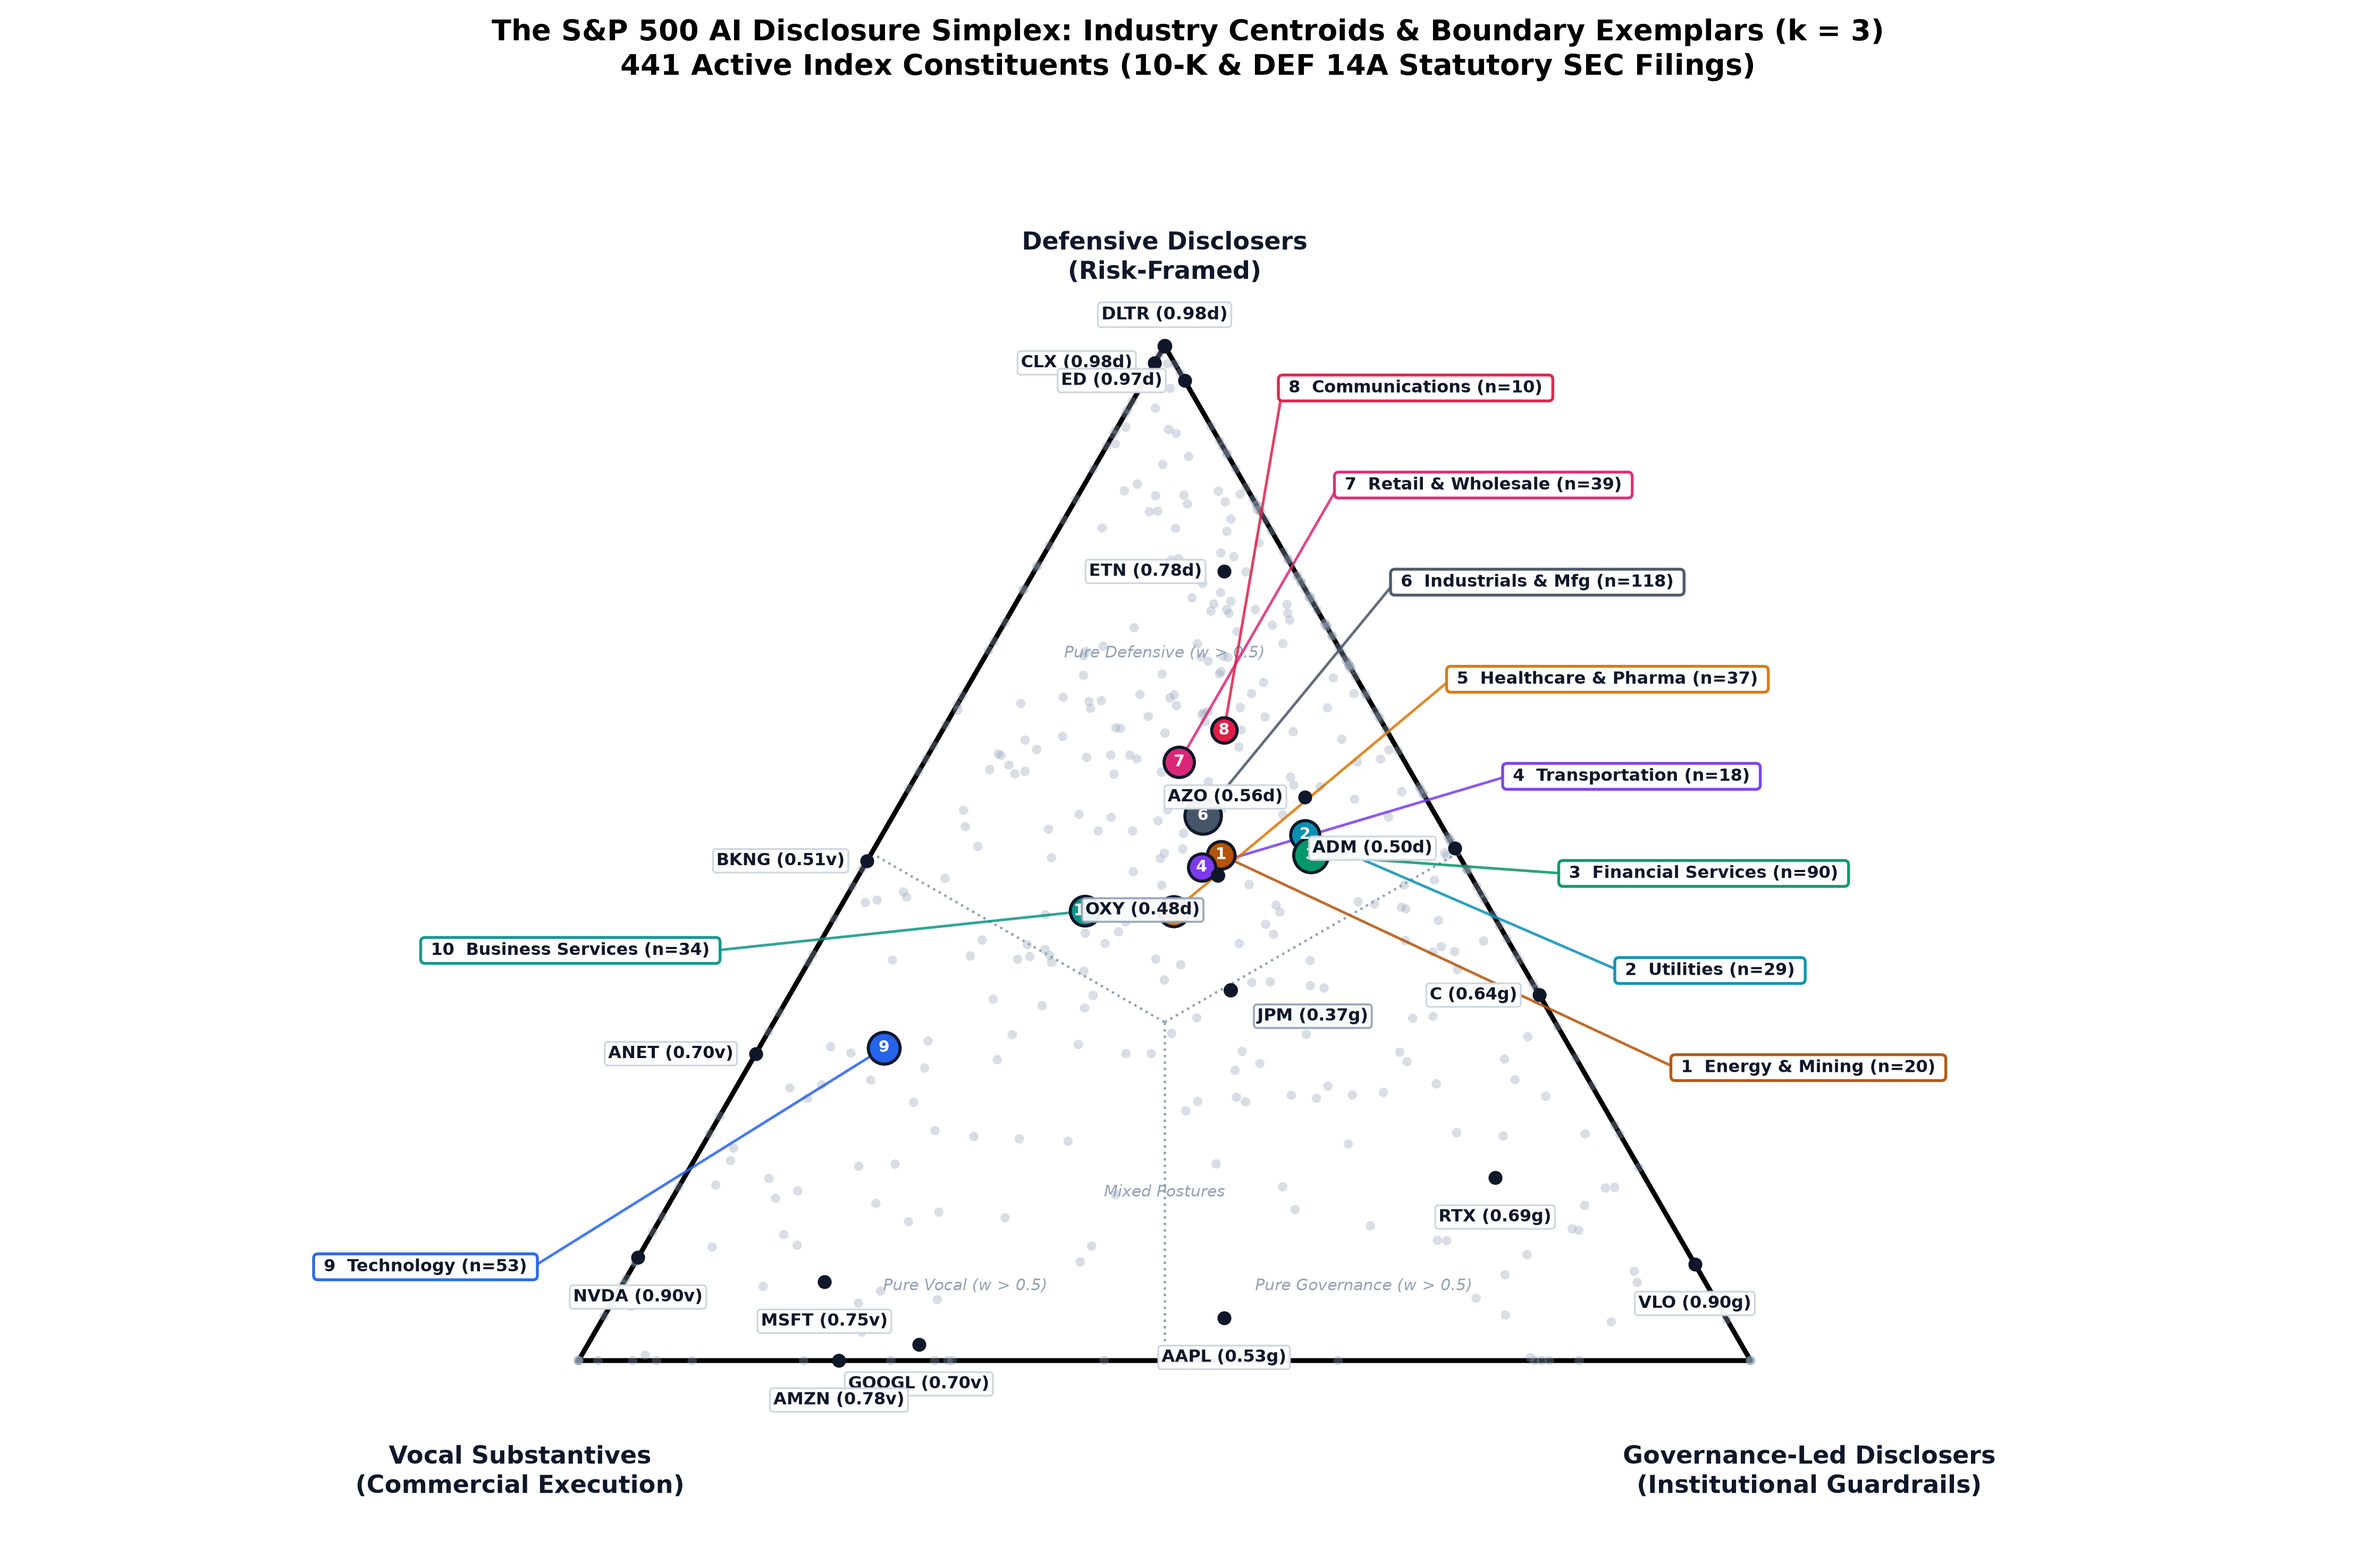
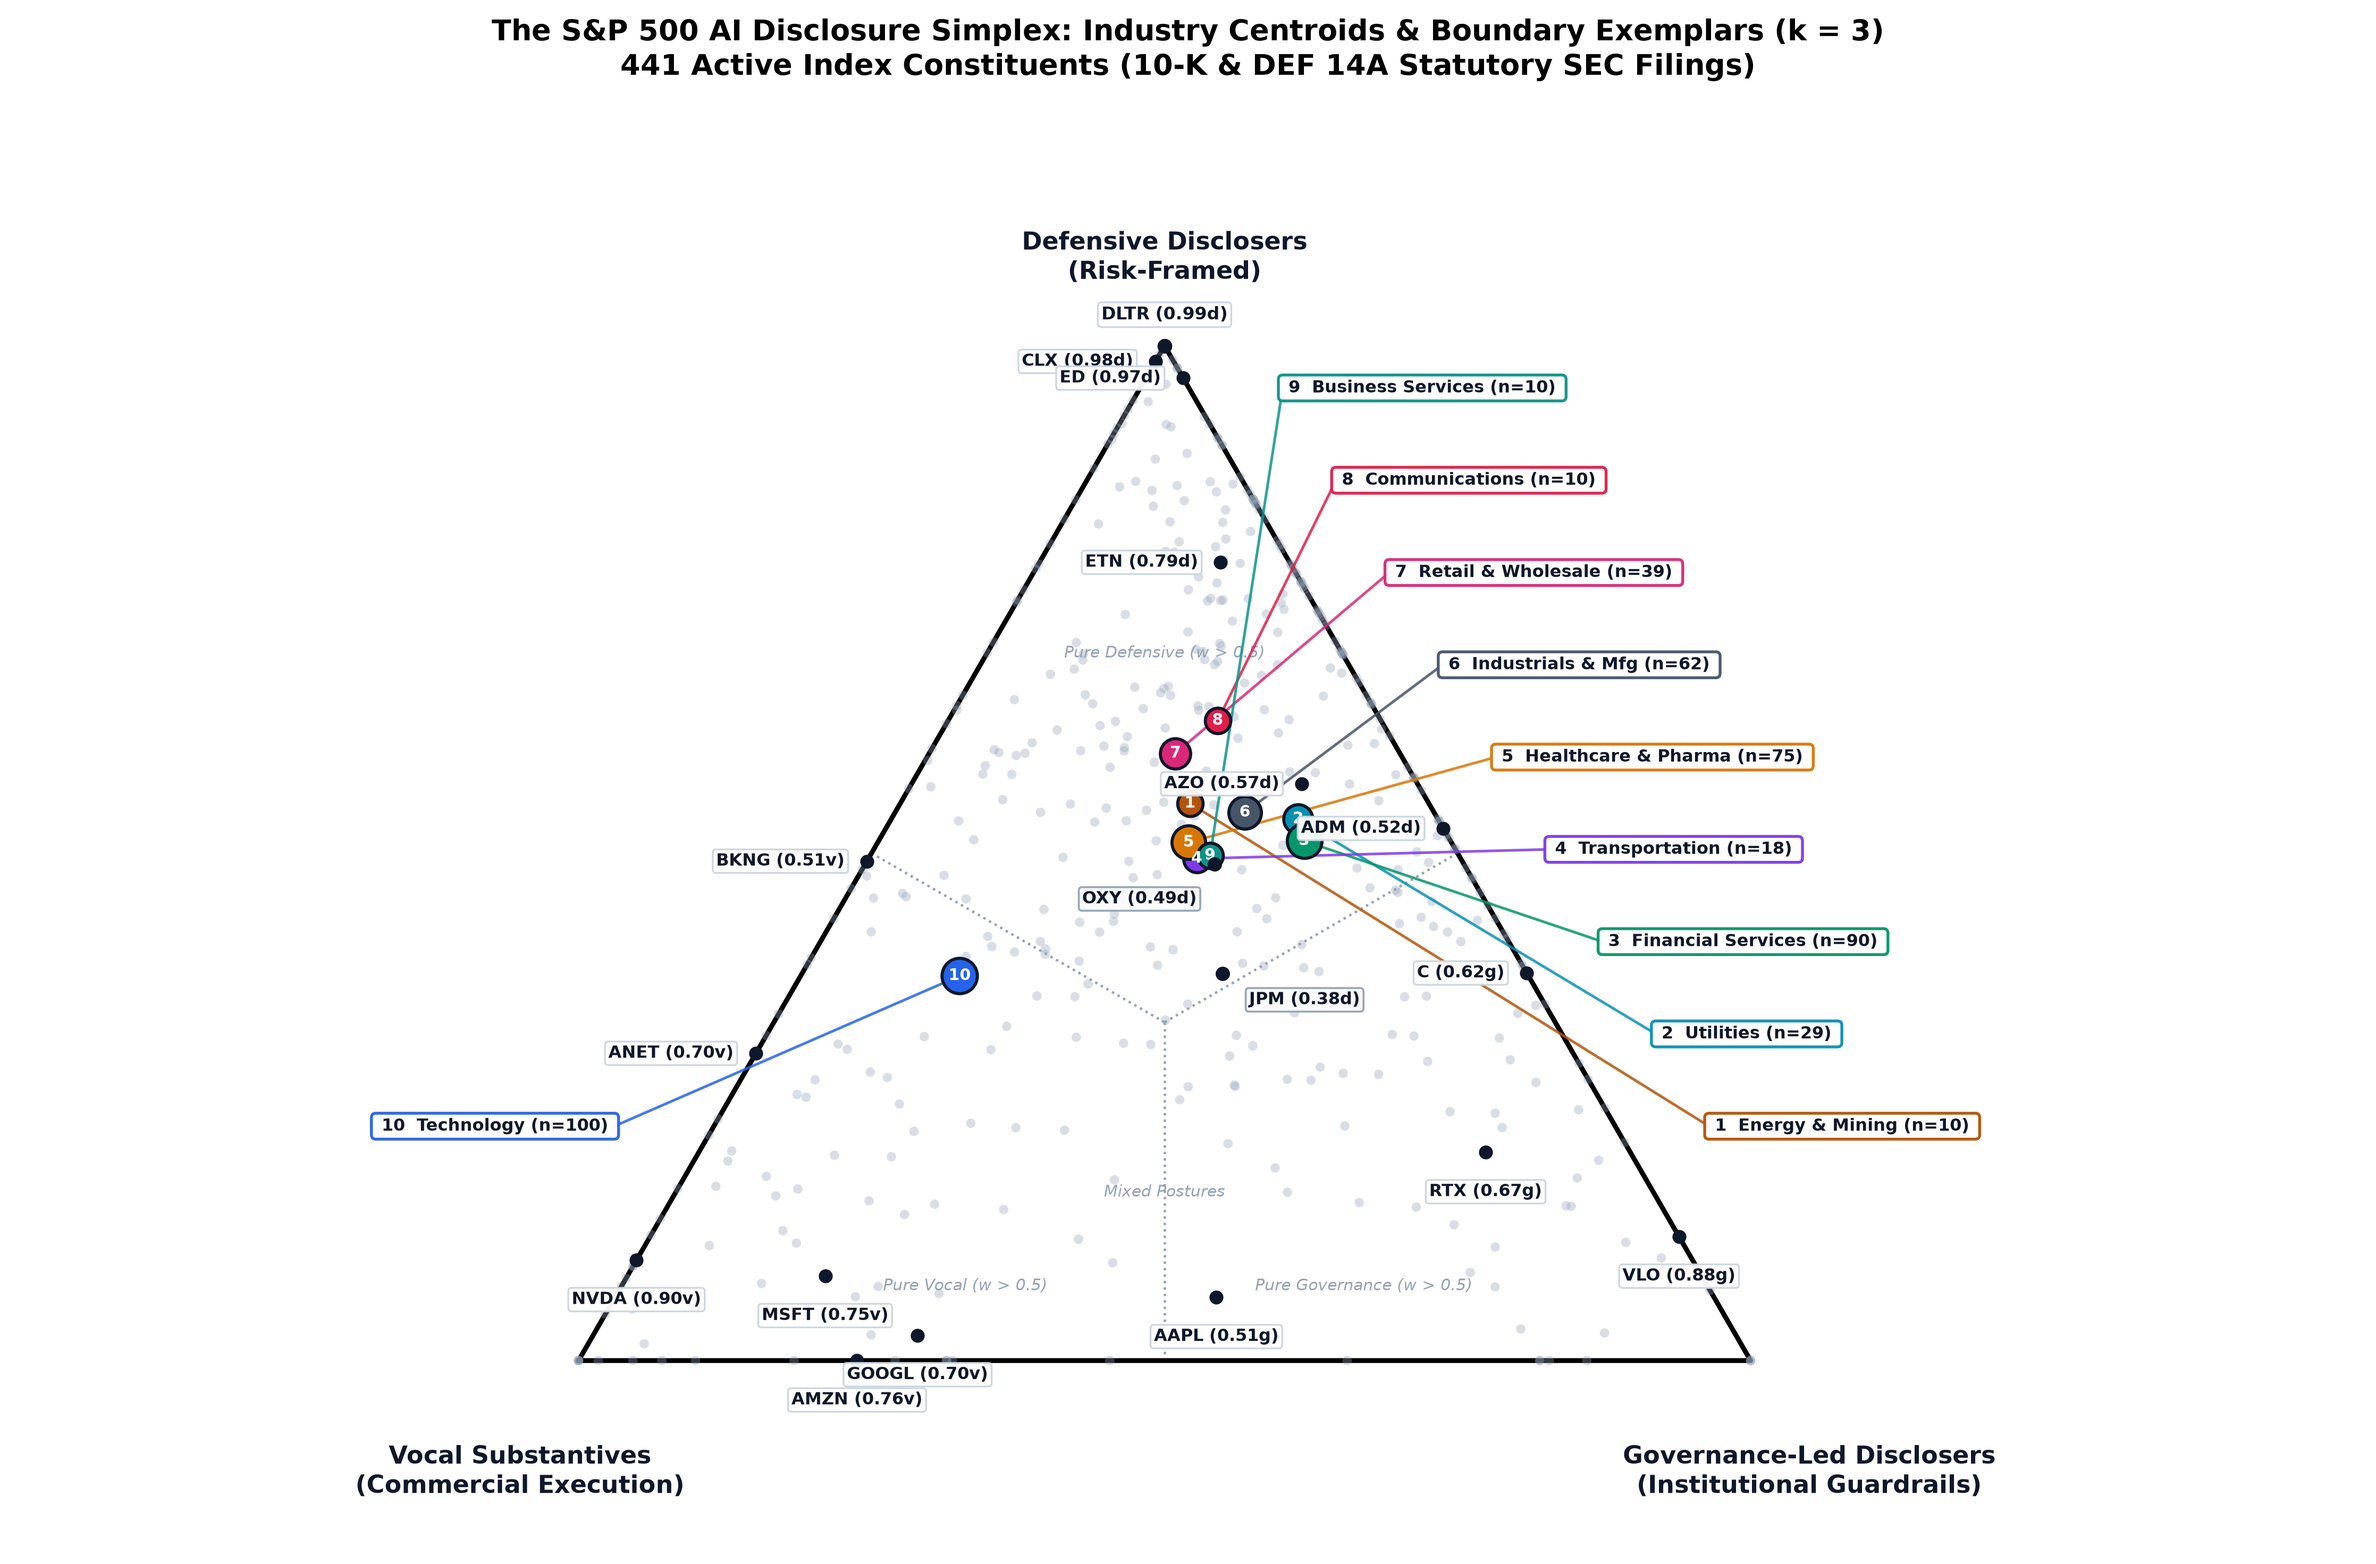
Unify sector classification to 11 aggregated sectors and add @tbl-a0-sic-sector-mapping in Appendix A

diff --git a/scripts/analytics/plot_archetypal_simplex.py b/scripts/analytics/plot_archetypal_simplex.py
@@ -8,35 +8,24 @@ from archetypes import AA
 con = duckdb.connect("duckdb/thesis.duckdb", read_only=True)
 fu = con.execute("SELECT ticker, company_name, sic, industry_group FROM firm_universe WHERE country_code = 'us' AND ticker IS NOT NULL").df()
 con.close()
-fu["sic_int"] = pd.to_numeric(fu["sic"], errors="coerce")
+fu["sic2"] = fu["sic"].astype(str).str.zfill(4).str[:2]
 
-def map_proper_sector(sic):
-    if pd.isna(sic): return "Other / Diversified"
-    s = int(sic)
-    s2 = s // 100
-    if 7370 <= s <= 7379 or 3570 <= s <= 3579 or 3670 <= s <= 3679 or 3660 <= s <= 3669:
-        return "Technology"
-    if 4800 <= s <= 4899:
-        return "Communications"
-    if 2830 <= s <= 2836 or 3840 <= s <= 3851 or 8000 <= s <= 8099:
-        return "Healthcare & Pharma"
-    if 6000 <= s <= 6799:
-        return "Financial Services"
-    if 1000 <= s <= 1499 or s2 == 29 or s == 3533:
-        return "Energy & Mining"
-    if 4900 <= s <= 4999:
-        return "Utilities"
-    if 4000 <= s <= 4799:
-        return "Transportation"
-    if 5000 <= s <= 5999:
-        return "Retail & Wholesale"
-    if 7000 <= s <= 8999:
-        return "Business Services"
-    if 1500 <= s <= 3999:
-        return "Industrials & Mfg"
-    return "Other / Diversified"
+def map_sector(sic2):
+    try: s = int(sic2)
+    except: return "Other / Diversified"
+    if s in [73, 35, 36]: return "Technology"
+    elif s in [48]: return "Communications"
+    elif s in [28, 38, 80]: return "Healthcare & Pharma"
+    elif 60 <= s <= 67: return "Financial Services"
+    elif 20 <= s <= 39: return "Industrials & Mfg"
+    elif 40 <= s <= 47: return "Transportation"
+    elif s == 49: return "Utilities"
+    elif 10 <= s <= 14 or s == 29: return "Energy & Mining"
+    elif 50 <= s <= 59: return "Retail & Wholesale"
+    elif 70 <= s <= 89: return "Business Services"
+    else: return "Other / Diversified"
 
-fu["sector"] = fu["sic_int"].apply(map_proper_sector)
+fu["sector"] = fu["sic2"].apply(map_sector)
 fu_sector_map = fu.set_index("ticker")["sector"].to_dict()
 fu_name_map = fu.set_index("ticker")["company_name"].to_dict()
 
@@ -134,19 +123,19 @@ RIGHT_ORDER = [
     "Healthcare & Pharma",
     "Industrials & Mfg",
     "Retail & Wholesale",
-    "Communications"
+    "Communications",
+    "Business Services"
 ]
 
 # Ordered along the left edge from bottom to top
 LEFT_ORDER = [
-    "Technology",
-    "Business Services"
+    "Technology"
 ]
 
 sec_dict = sec_grp.set_index("sector").to_dict(orient="index")
 
-# Right-side Labels: y from 0.25 to 0.83 for 8 sectors
-y_right = np.linspace(0.25, 0.83, len(RIGHT_ORDER))
+# Right-side Labels: y from 0.20 to 0.83 for 9 sectors
+y_right = np.linspace(0.20, 0.83, len(RIGHT_ORDER))
 for idx, sec in enumerate(RIGHT_ORDER):
     sid = idx + 1
     d = sec_dict[sec]
@@ -174,8 +163,8 @@ for idx, sec in enumerate(RIGHT_ORDER):
             bbox=dict(boxstyle="round,pad=0.25", fc="white", ec=col, lw=1.3, alpha=0.96),
             zorder=8)
 
-# Left-side Labels: Technology & Business Services
-y_left = [0.08, 0.35]
+# Left-side Labels: Technology
+y_left = [0.20]
 for idx, sec in enumerate(LEFT_ORDER):
     sid = len(RIGHT_ORDER) + idx + 1
     d = sec_dict[sec]
